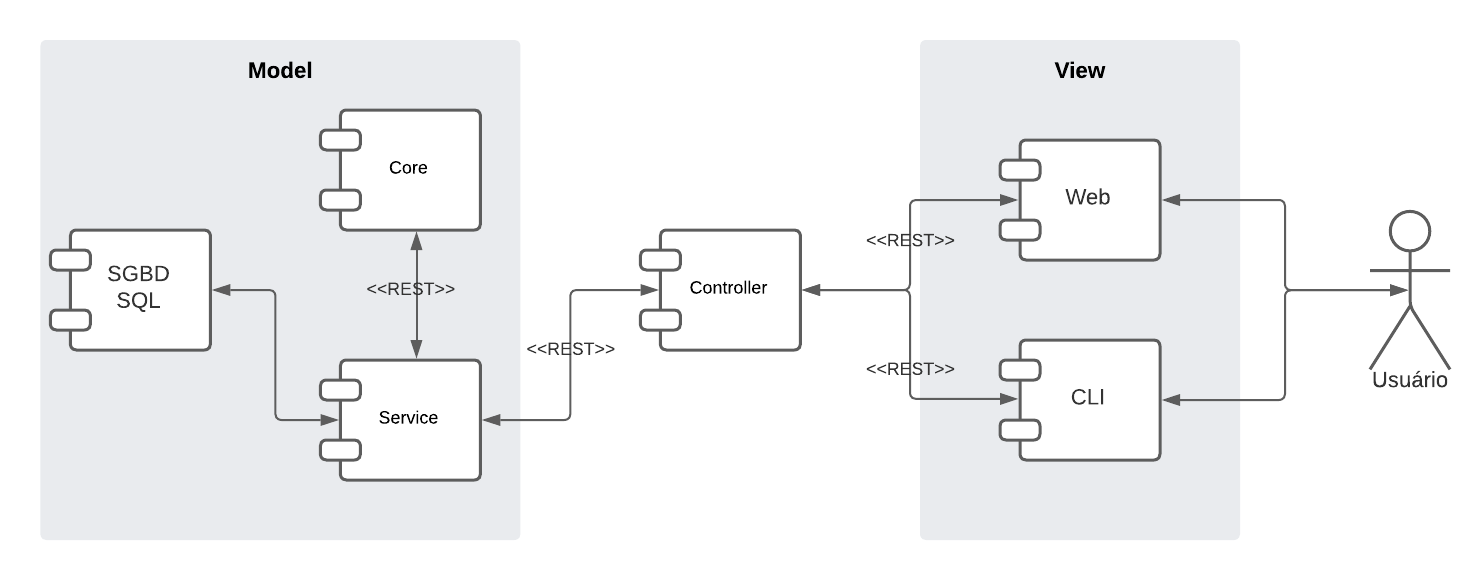
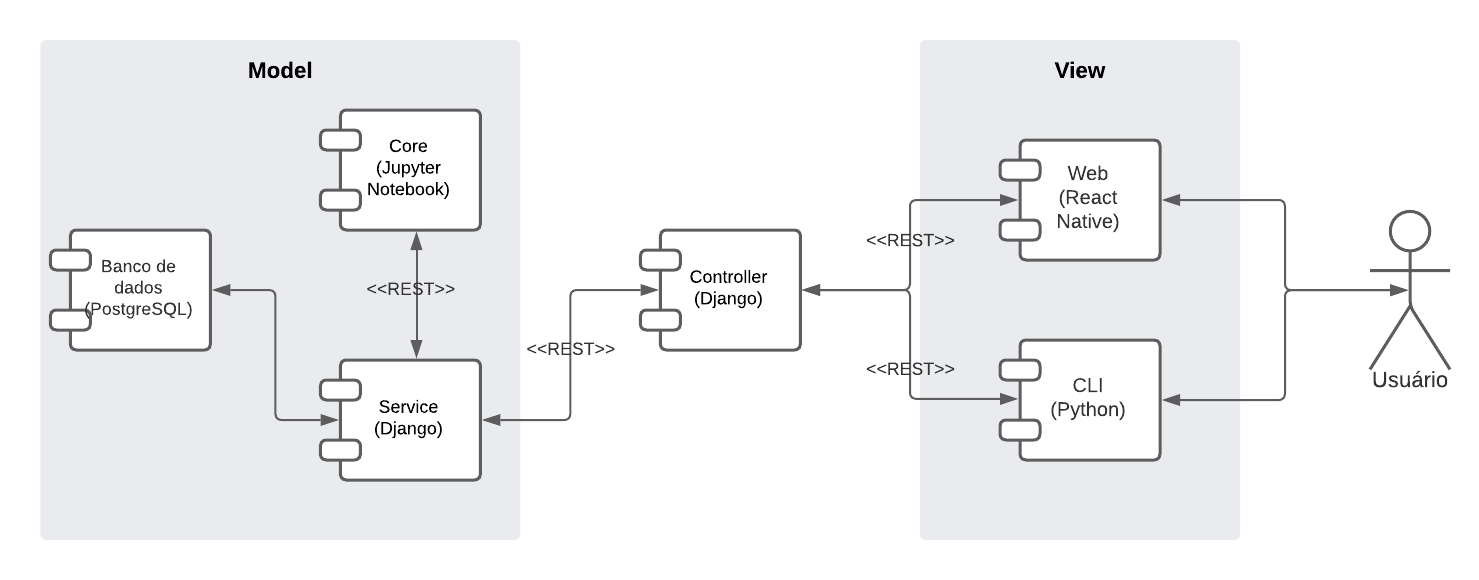
#31 - Adicionado tópico de tecnologia

diff --git a/docs/documentos/documento_de_arquitetura.md b/docs/documentos/documento_de_arquitetura.md
@@ -4,11 +4,32 @@
 | :-----------------: | :---------------: | :-------------------------------: | :----: |
 | 12 de julho de 2022 | **Danillo Souza** |     Inclusão da documentação      | 0.1.0  |
 | 12 de julho de 2022 | **Danillo Souza** | Inclusão do diagrama arquitetural | 0.2.0  |
+| 13 de julho de 2022 | **Danillo Souza** | Inclusão do tópico de tecnologias | 0.3.0  |
 
 ## Introdução
 
 A finalidade deste documento é detalhar as decisões arquiteturais do MeasureSoftGram utilizando diferentes visões arquiteturais, a fim de facilitar o entendimento dos processos envolvidos no desenvolvimento e todo o funcionamento do produto e além disso dar atualizar a [documentação original](https://fga-eps-mds.github.io/2021-2-MeasureSoftGram-Doc/docs/artifact/sad) do projeto.
 Nesse documento, estão descritos os componentes, tecnologias e diferentes visões arquiteturais do MeasureSoftGram.
+
+## Tecnologias
+
+### Frontend
+
+- **React Native**: Framework em JavaScript e que possui suporte a TypeScript, desenvolvido pelo Facebook. Possibilita a criação de páginas web de forma simples e mais rápida que o clássico HTML, CSS e JavaScript.
+
+- **Python**: Linguagem de programação alto nível que possibilita a estabilidade de projetos que podem ser altamente escalaveis. Pode ser usada para criar interfaces simples no terminal de computadores.
+
+### Backend
+
+- **Django**: Framework open source baseado em Python. Desenvolvido com o intuito de reslver problemas comuns durante o desenvolvimento web. Altamente escalavel e robusto.
+
+- **Jupyter Notebook**: É uma ferramenta open source que possibilita a criação e manipulação de Notebooks. Tecnologia baseada em Python.
+
+### Banco de dados
+
+- **PostgreSQL**: Sistema gerenciador de banco de dados relacionais de código aberto. Tem função de gerenciar dados de maneira organizada e eficaz.
+
+<!-- TODO: Limitações arq -->
 
 ## Diagrama arquitetural
 
@@ -16,4 +37,14 @@ Nesse documento, estão descritos os componentes, tecnologias e diferentes visõ
 
 ## Referência
 
-[1] MARIOTTI,Flávio Secchieri; Como documentar a Arquitetura de Software. Disponível em: http://www.linhadecodigo.com.br/artigo/3343/como-documentar-a-arquitetura-de-software.aspx. Acessado em: 12/07/2022.
+[1] MARIOTTI, Flávio Secchieri; Como documentar a Arquitetura de Software. Disponível em: http://www.linhadecodigo.com.br/artigo/3343/como-documentar-a-arquitetura-de-software.aspx. Acessado em: 12/07/2022.
+
+[2] ROVEDA, Ugo; O que é Django, para que serve e como usar este framework. Disponível em: https://kenzie.com.br/blog/djang/o. Acessado em: 13/07/2022.
+
+[3] ROVEDA, Ugo; React: O que é, como funciona e porque usar e como aprender. Disponível em: https://kenzie.com.br/blog/react/. Acessado em: 13/07/2022.
+
+[4] SOUZA, Ivan de; PostgreSQL: saiba o que é, para que serve e como instalar. Disponível em: https://rockcontent.com/br/blog/postgresql/. Acessado em: 13/07/2022.
+
+[5] KRIGER, Kriger; O que é Python, para que serve e por que aprender?. Disponível em: https://kenzie.com.br/blog/o-que-e-python/. Acessado em: 13/07/2022.
+
+[6] Jupyter Notebook: o que é e como usar. Disponível em: https://www.buscape.com.br/pc-computador/conteudo/jupyter-notebook-o-que-e-como-usar. Acessado em: 13/07/2022.
